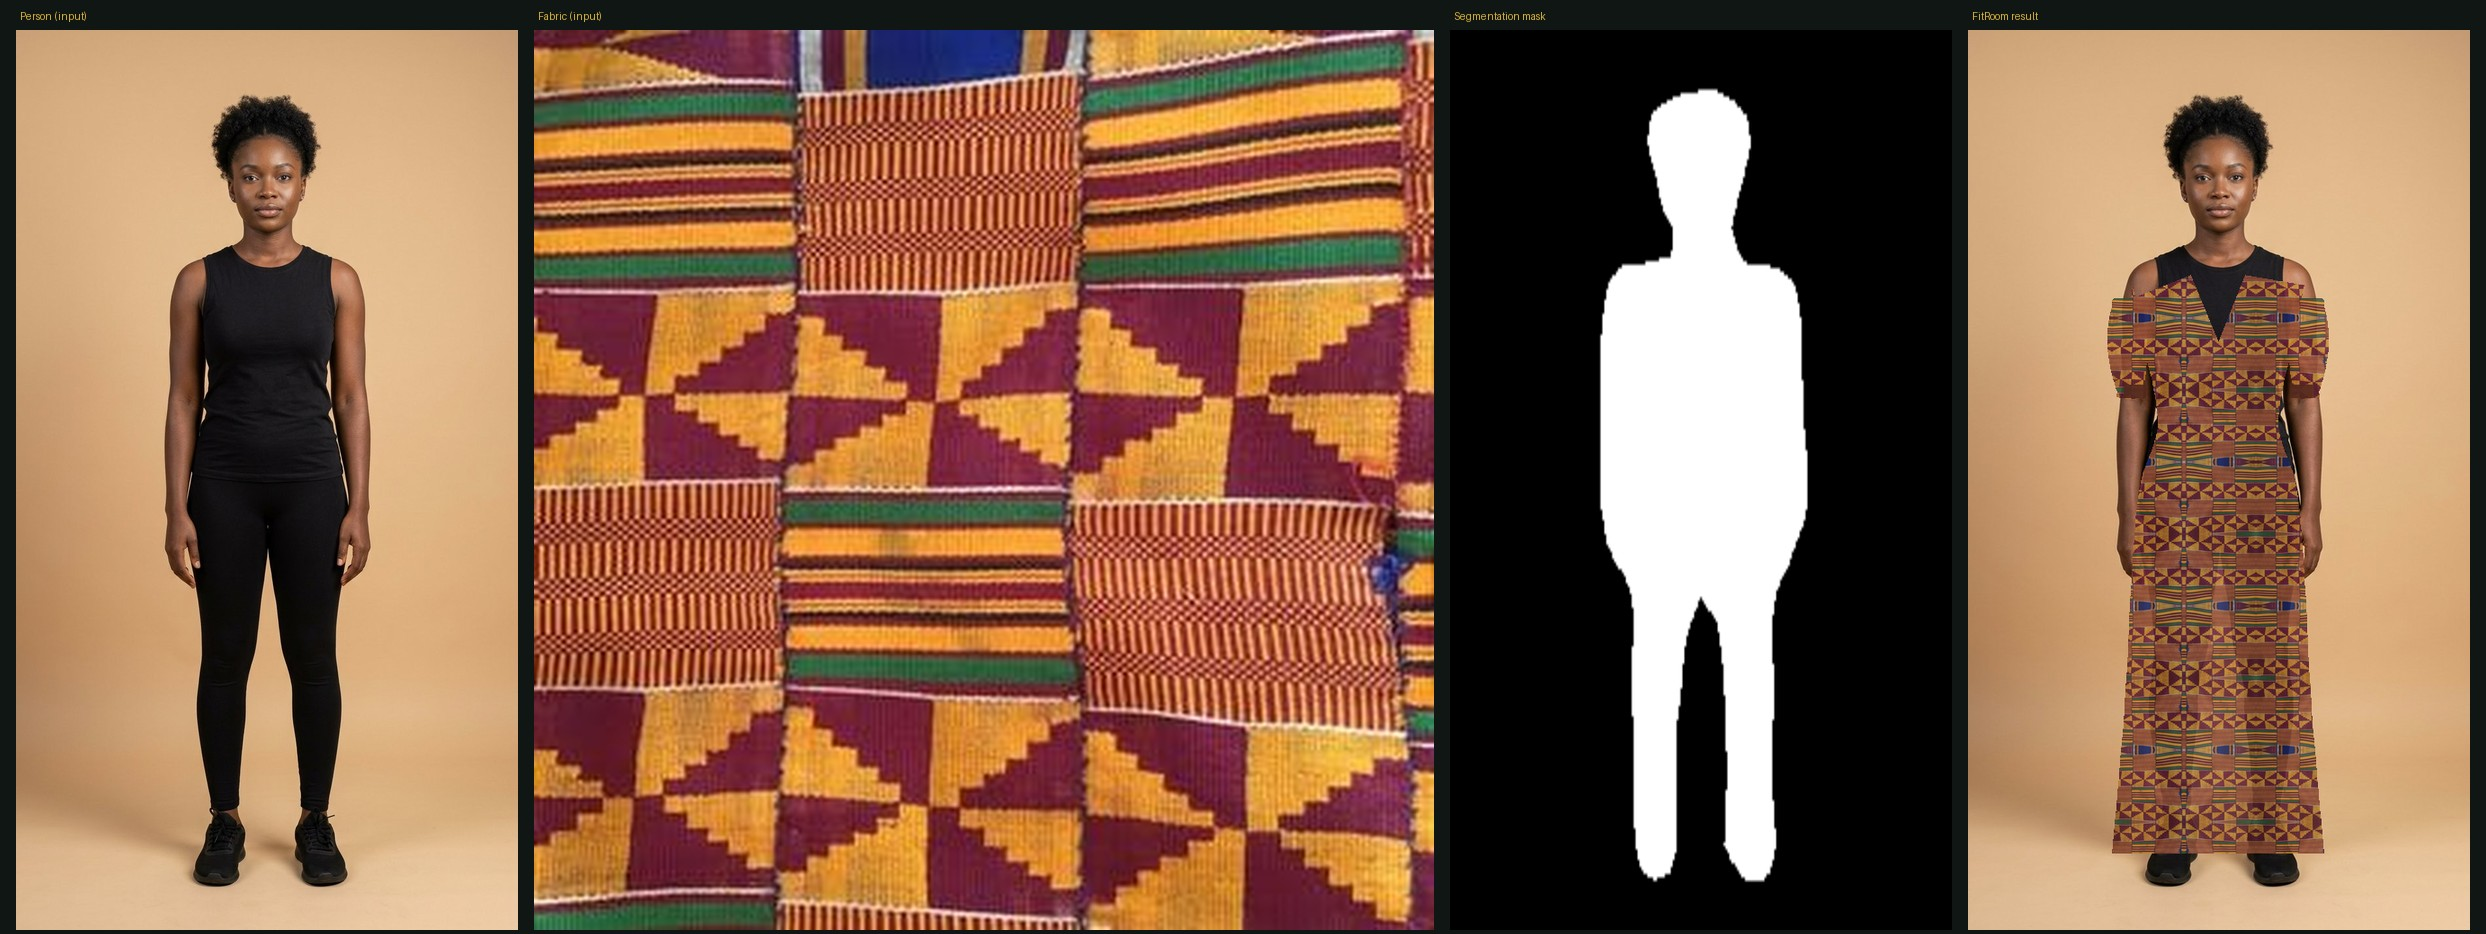
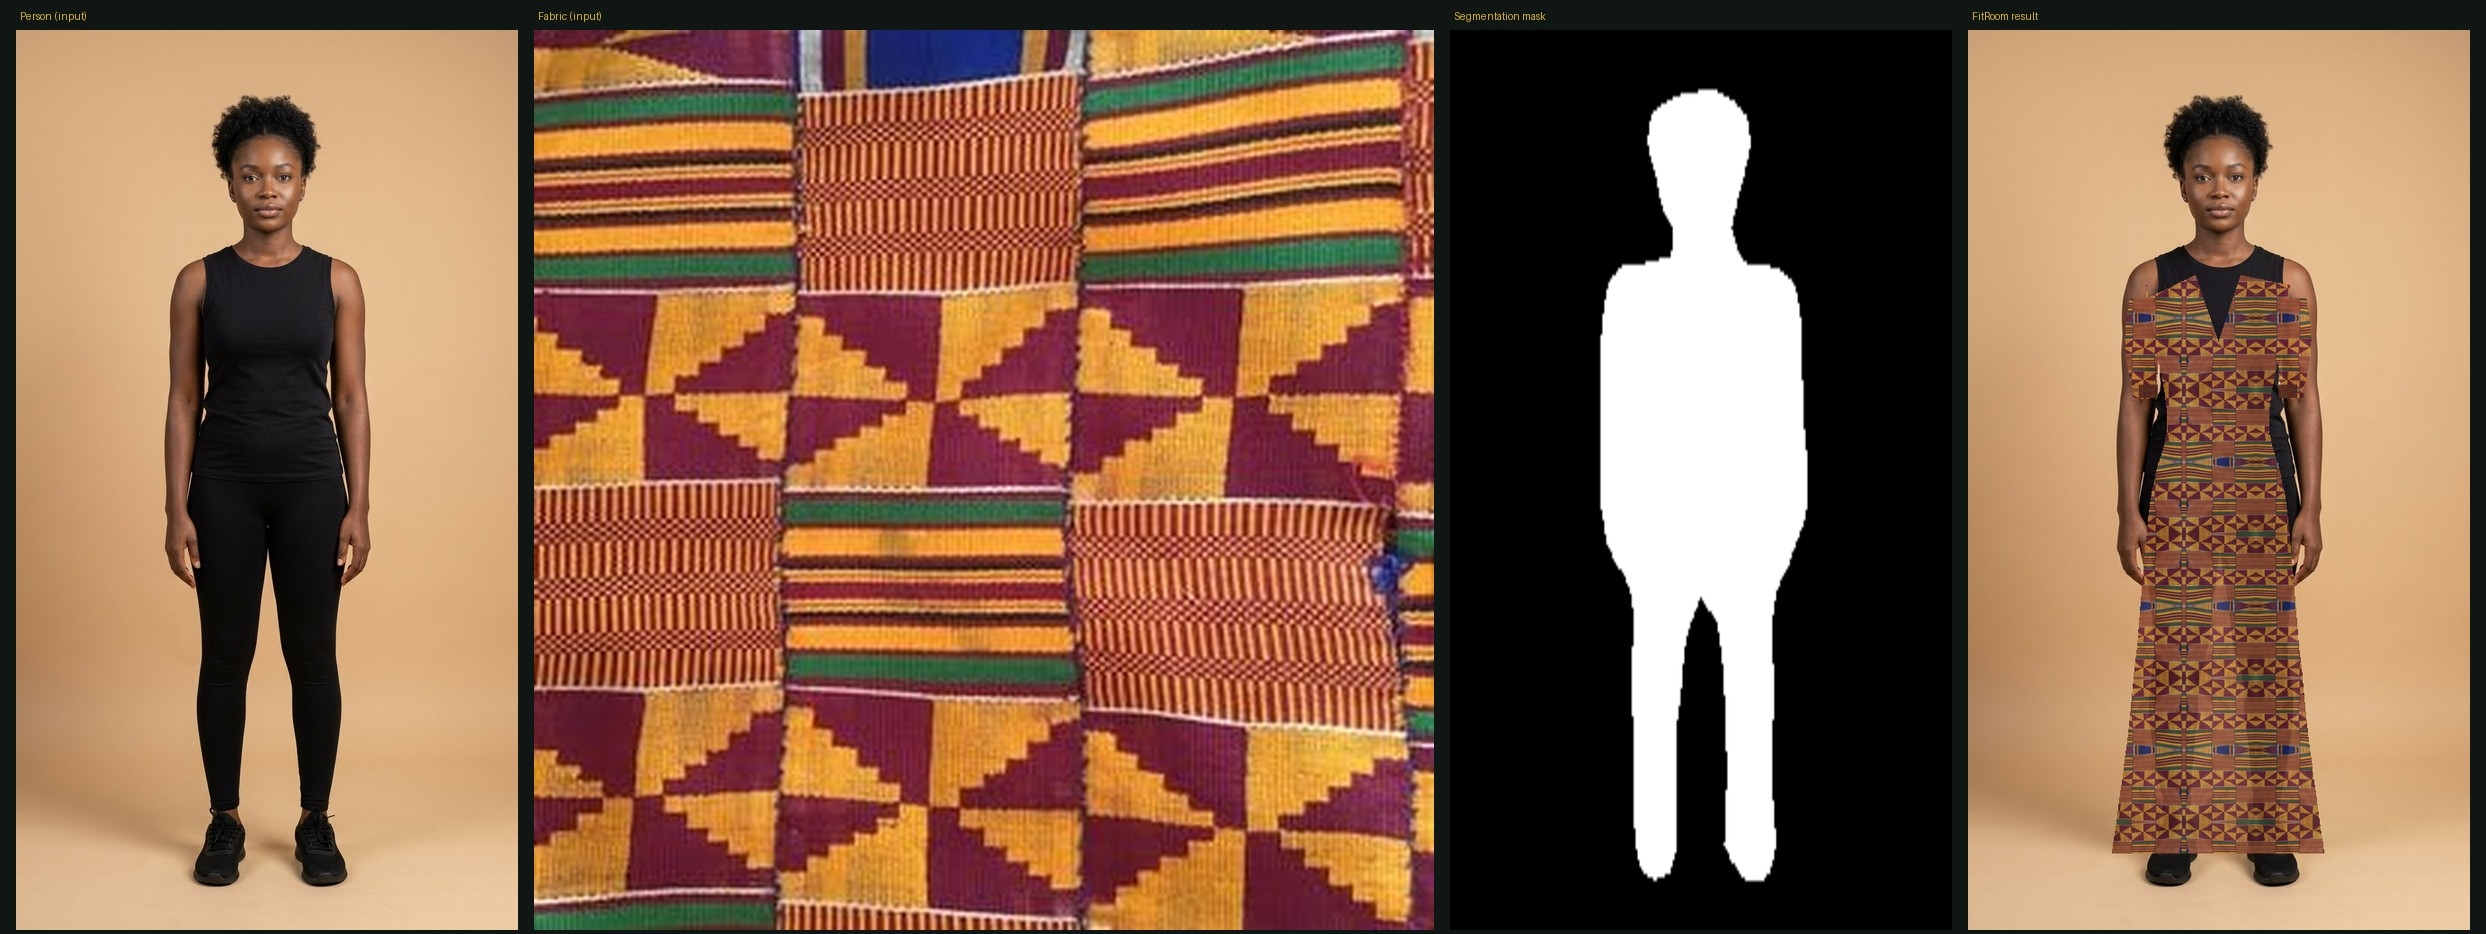
Garment: keep a shoulder shelf when the mask includes the arms
The device render was lopsided: with arms hanging beside the body the measured shoulder
(143.5 px) and bust (153.5 px) are nearly equal, so clamping 'bust = max(shoulder*0.84,
bust*0.58)' made the bust as wide as the shoulder - no shelf, and a V-neck that ran
diagonally across the chest.

Measured widths now move halfway toward torso proportions (bust * 0.58) so the shoulder
stays wider than the bust: 112 vs 94 px on the bundled model. Estimated widths (no
segmenter) are already torso-shaped and keep the old clamp. Mirrored in vton_local.py.
Proof images regenerated from a real TFLite segmentation run [release] [tryon-e2e]

diff --git a/FabricFit/app/src/main/java/com/fabricfit/app/media/garment/BodyFit.kt b/FabricFit/app/src/main/java/com/fabricfit/app/media/garment/BodyFit.kt
@@ -133,8 +133,18 @@ object BodyFit {
         val ph = body.personHeight
         val cx = body.centre
 
-        val shoulder = max(body.shoulderHalf * 0.93f, ph * 0.085f)
-        val bust = min(max(shoulder * 0.84f, body.bustHalf * 0.58f), shoulder * 0.98f)
+        // The mask includes the arms when they hang beside the body, so its widths are wider
+        // than a torso. Trust the measurement but pull it toward body proportions: the arms
+        // alone made the shoulder exactly as wide as the bust, leaving no shoulder shelf.
+        // When the caller passed estimated widths (no segmenter), the estimate is already
+        // torso-shaped, so it is used as-is.
+        val torsoPrior = body.bustHalf * 0.58f
+        val shoulder = if (body.usable) {
+            max((body.shoulderHalf * 0.93f + torsoPrior) / 2f, ph * 0.085f)
+        } else {
+            max(body.shoulderHalf * 0.93f, ph * 0.085f)
+        }
+        val bust = min(max(shoulder * 0.84f, torsoPrior), shoulder * 0.98f)
         val waist = min(max(shoulder * 0.70f, body.waistHalf * 0.50f), bust * 0.90f)
         val hip = min(max(shoulder * 0.94f, body.hipHalf * 0.62f), bust * 1.22f)
         val thigh = max(body.thighHalf * 1.05f, hip * 0.95f)

diff --git a/FabricFit/tools/vton_qa/vton_local.py b/FabricFit/tools/vton_qa/vton_local.py
@@ -618,8 +618,15 @@ def fitted_garment_polys(
     # wide. Anchor on the deltoid width and derive the rest with body proportions
     # (bust ≈ 0.84·shoulder, waist ≈ 0.70·shoulder, hip ≈ 0.93·shoulder for the
     # front-view reference pose), then bound them with the measured values.
-    shoulder = max(body["shoulder_half"] * 0.93, body["person_h"] * 0.085)
-    bust = min(max(shoulder * 0.84, body["bust_half"] * 0.58), shoulder * 0.98)
+    # The mask includes the arms when they hang beside the body, so pull the measured
+    # shoulder halfway toward torso proportions (same rule as BodyFit.kt). `ok == False`
+    # means these are estimated fallback widths, which are already torso-shaped.
+    torso_prior = body["bust_half"] * 0.58
+    if body.get("ok"):
+        shoulder = max((body["shoulder_half"] * 0.93 + torso_prior) / 2, body["person_h"] * 0.085)
+    else:
+        shoulder = max(body["shoulder_half"] * 0.93, body["person_h"] * 0.085)
+    bust = min(max(shoulder * 0.84, torso_prior), shoulder * 0.98)
     waist = min(max(shoulder * 0.70, body["waist_half"] * 0.50), bust * 0.90)
     hip = min(max(shoulder * 0.94, body["hip_half"] * 0.62), bust * 1.22)
     thigh = max(body["thigh_half"] * 1.05, hip * 0.95)
